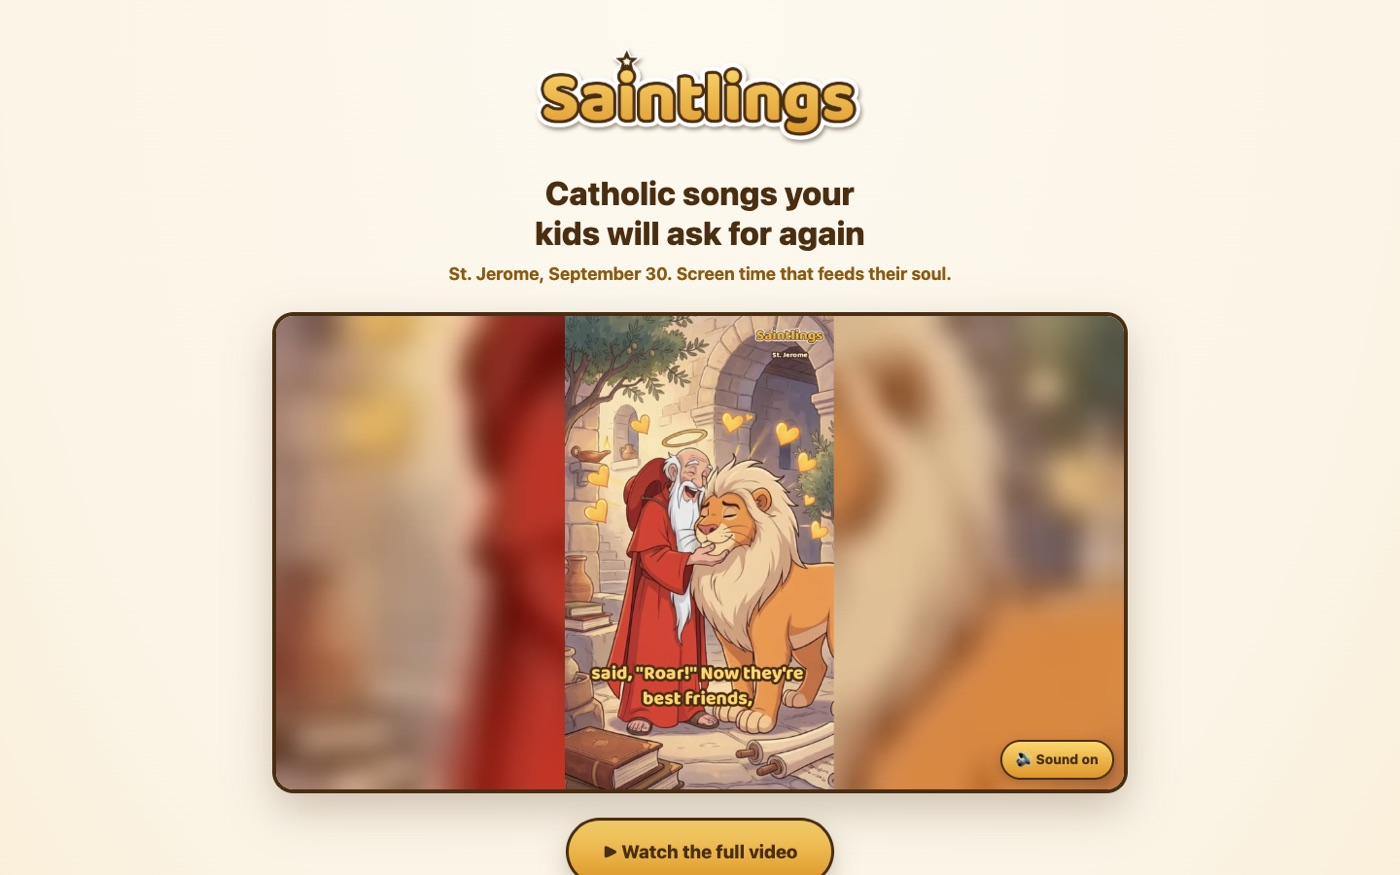
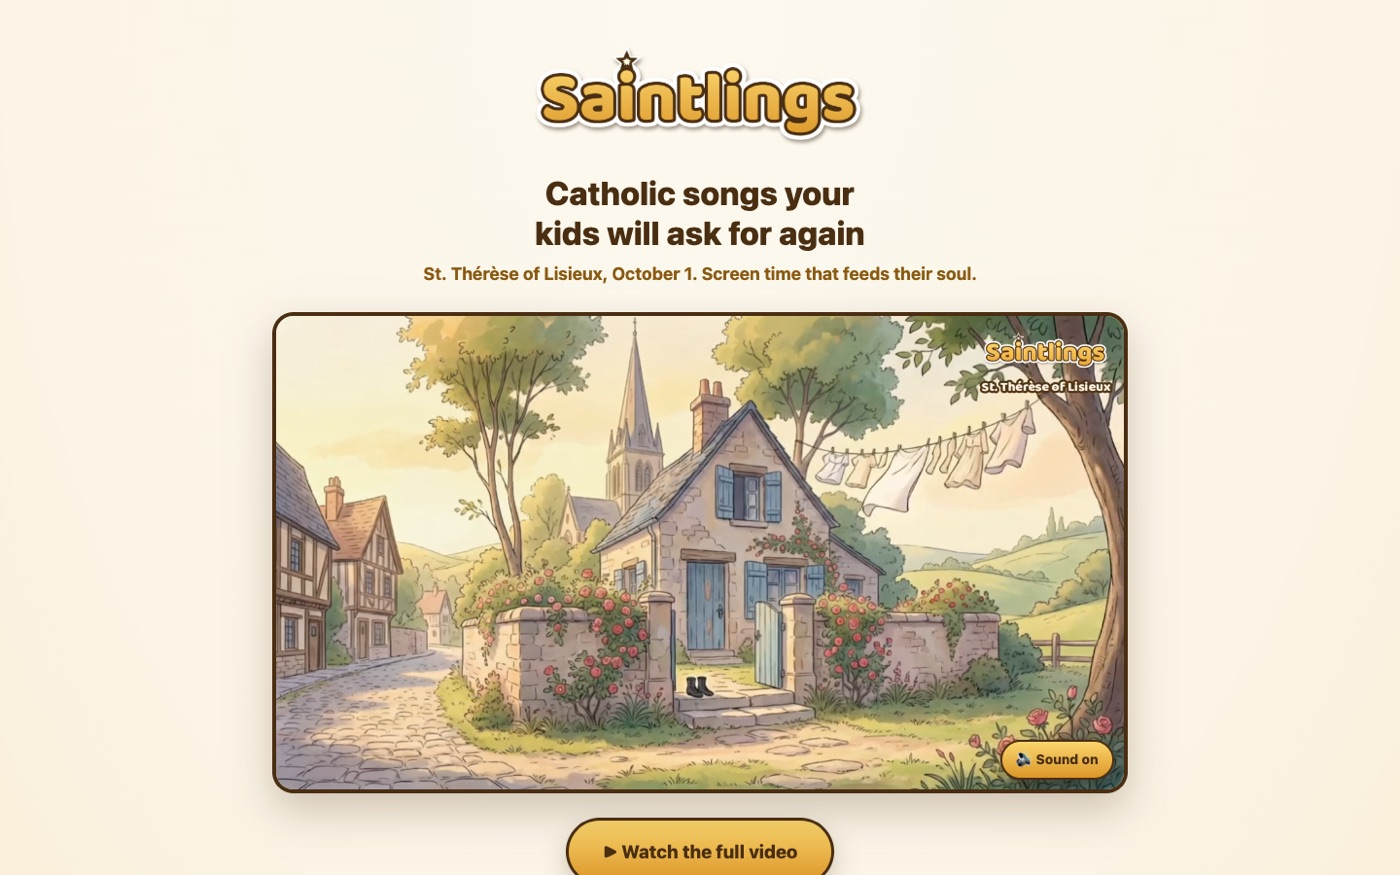
content: refresh Saintlings screenshot
Claude-Session: https://claude.ai/code/session_01JYKYEBsinUHR28UUhQBxxu

diff --git a/components/studio/studio.tsx b/components/studio/studio.tsx
@@ -7,7 +7,7 @@ const products = [
     url: "saintlings.app",
     href: "https://saintlings.app/",
     image: "/images/saintlings-live.jpg",
-    alt: "Saintlings homepage showing an illustrated St. Jerome sing-along video",
+    alt: "Saintlings homepage showing an illustrated St. Thérèse of Lisieux sing-along video",
     description:
       "Sing-along songs and storybook lives of the saints for Catholic kids. An iOS app with family subscriptions, and a content engine that writes, renders, and posts on its own.",
     stats: [
